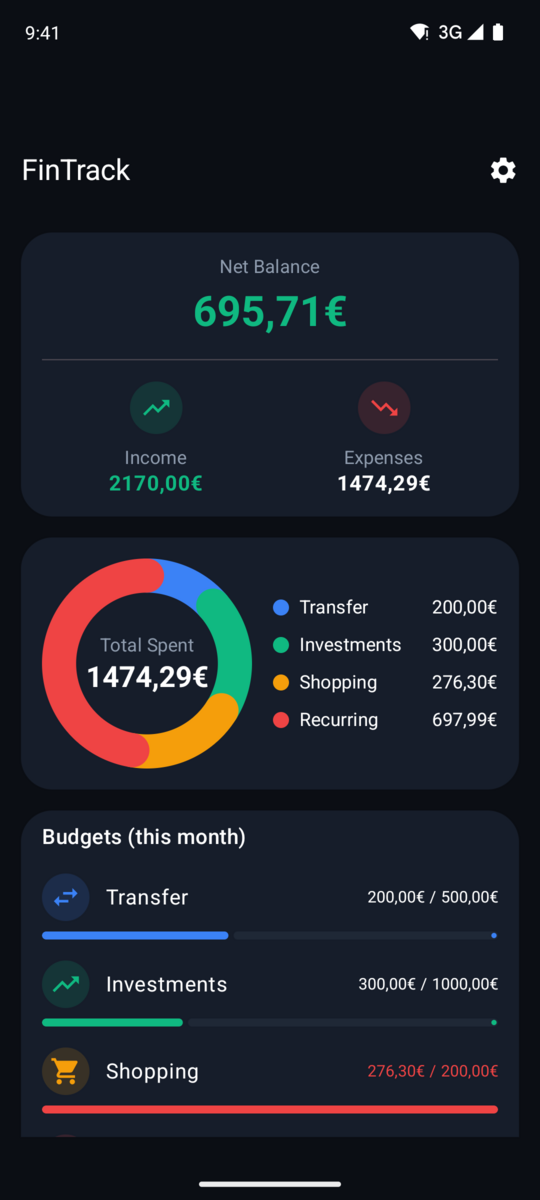
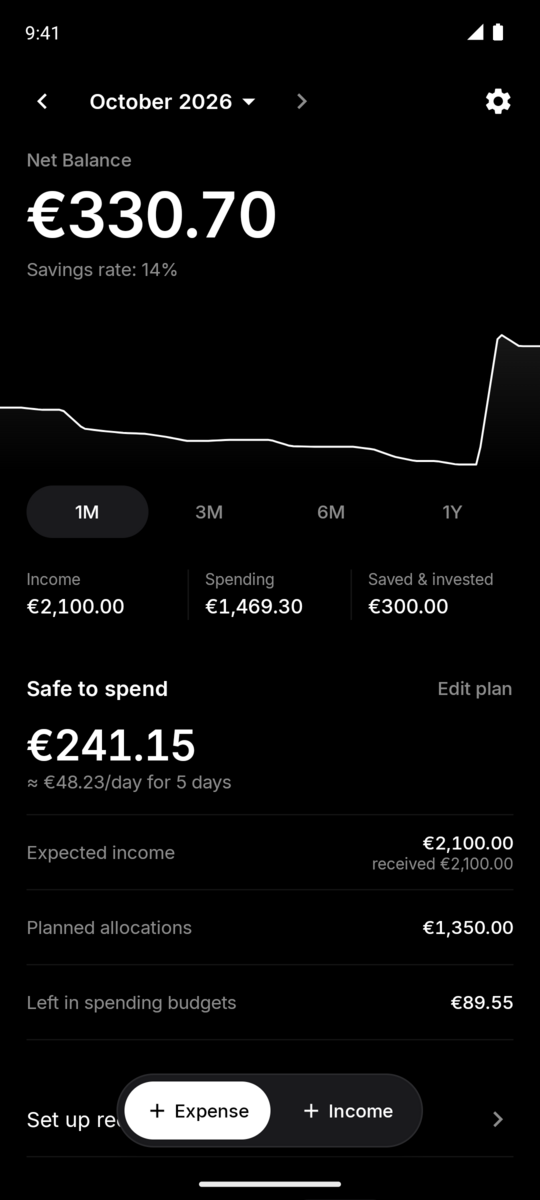
docs: redesign screenshots, README features and Inter credit

diff --git a/README.md b/README.md
@@ -42,24 +42,25 @@ A monthly expense- and income-tracking Android app, built with Kotlin, Jetpack C
 - **Income tracking** — a separate, parallel entity (free-text source like "Salary" or "Freelance" instead
   of a fixed category), kept intentionally independent of expenses so it could be added later with zero
   risk to the existing expense code.
-- **Dashboard** — time-range filters (1 week / 1 month / 3 months / 6 months / 1 year), a pie chart of
-  spend by category, the last 5 expenses and last 5 income entries, and a **net balance** figure (income
-  minus expenses) for the selected range.
+- **Dashboard** — a large **net balance** (income minus expenses) that counts up on change, a minimal
+  cumulative-balance line chart you can long-press and scrub (with haptic ticks), 1M / 3M / 6M / 1Y period
+  tabs plus month navigation and custom ranges, an income / spending / saved strip, a category breakdown
+  (segmented bar + ranked list), and the latest expenses and income grouped by day.
 - **Per-category budget limits** — set a monthly limit per category; the Dashboard shows progress bars
   against the current calendar month (independent of the rolling time-range filter) with an over-budget
   visual state.
 - **Monthly plan / "safe to spend"** — list your expected income (e.g. salary, meal allowance); the
   category budgets are the planned allocations. A Dashboard card shows what's still free to spend this
   month (income minus, per category, the larger of planned and actual), expected vs received income,
-  what's left in spending budgets and a daily allowance; the spending donut toggles between actual and
+  what's left in spending budgets and a daily allowance; the category breakdown toggles between actual and
   planned. Edited on its own "Monthly plan" screen.
 - **Recurring transactions** — rent, subscriptions, salary: monthly or yearly templates with an explicit
   billing day (clamped to short months), start/end dates and pause/resume. An Upcoming card on the
   Dashboard lists due and soon-due occurrences with one-tap Confirm (creates the expense/income with a
   deterministic id, so it's never duplicated) or Skip, and shows the annualized cost of recurring expenses.
 - **Full expense/income lists** — the same time-range filters, text search, and sorting (newest/oldest
-  first, highest/lowest amount); swipe-to-dismiss delete with an Undo snackbar, plus a trash-icon button
-  for discoverability.
+  first, highest/lowest amount), rows grouped under day headers; swipe-to-delete with an Undo snackbar
+  (also exposed as a "Delete" accessibility action).
 - **CSV import/export** — for expenses, from Settings (income CSV support is a deliberate fast-follow, not
   yet built).
 - **Google Sign-In** via Credential Manager (not the legacy `GoogleSignInClient` API) + Firebase Auth.
@@ -70,8 +71,10 @@ A monthly expense- and income-tracking Android app, built with Kotlin, Jetpack C
 - **JSON backup** — export all data and preferences to a versioned `fintrack-backup` JSON file (signed in
   or as a guest) and restore it as a guest, e.g. to move to another phone.
 - **Settings** — reached from the Dashboard's gear icon:
-  - **Theme**: system default, light or dark, with a full, intentional Material 3 dark color scheme (not an
-    auto-inverted afterthought).
+  - **Theme**: system default, light or dark. The design is dark-first and monochrome (true black, hairline
+    dividers, color only for meaning: gains, overspending, category data), set in Inter with tabular
+    figures, with shared-axis screen transitions and motion that respects the system's reduced-motion
+    setting.
   - **Language**: English or Portuguese (or the system language), switched in-app. Theme, language and
     currency are stored locally (DataStore) and synced across your devices through Firestore.
   - **Display currency**: USD, EUR, GBP, JPY, CAD or AUD. Purely cosmetic: it changes the symbol and
@@ -98,6 +101,7 @@ A monthly expense- and income-tracking Android app, built with Kotlin, Jetpack C
 | Lint/format | ktlint + detekt |
 | Unit tests | JUnit4 + Robolectric (where Android framework classes are needed, e.g. the legacy `SharedPreferences` migration) |
 | E2E tests | [Maestro](https://maestro.mobile.dev) |
+| Typeface | [Inter](https://rsms.me/inter/) (bundled static TTFs) |
 | CI | GitHub Actions |
 
 Min SDK 24, target/compile SDK 36, Java 11 source/target compatibility.
@@ -268,3 +272,6 @@ slow and flake-prone) and are run manually instead.
 ## License
 
 [MIT](LICENSE) © 2026 João Neves
+
+The bundled typeface is [Inter](https://github.com/rsms/inter) by Rasmus Andersson, licensed under the
+SIL Open Font License 1.1 (see [`third_party/inter/OFL.txt`](third_party/inter/OFL.txt)).
